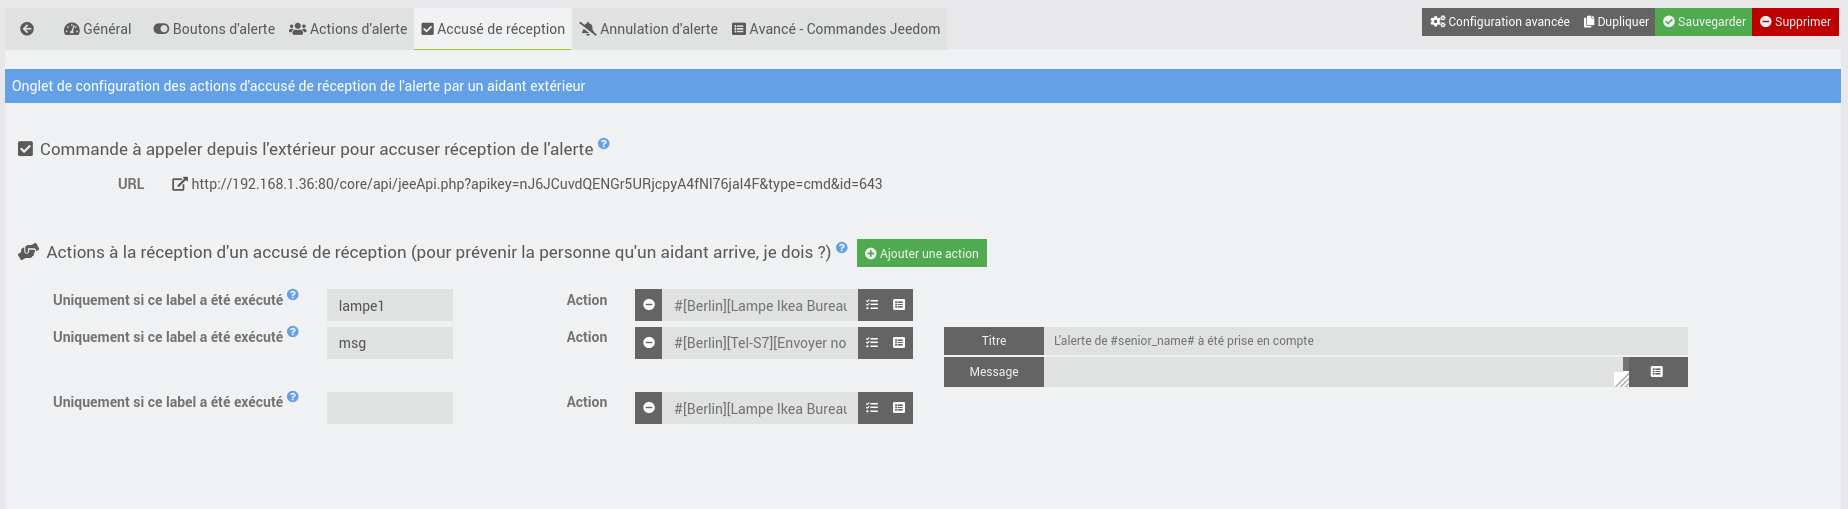
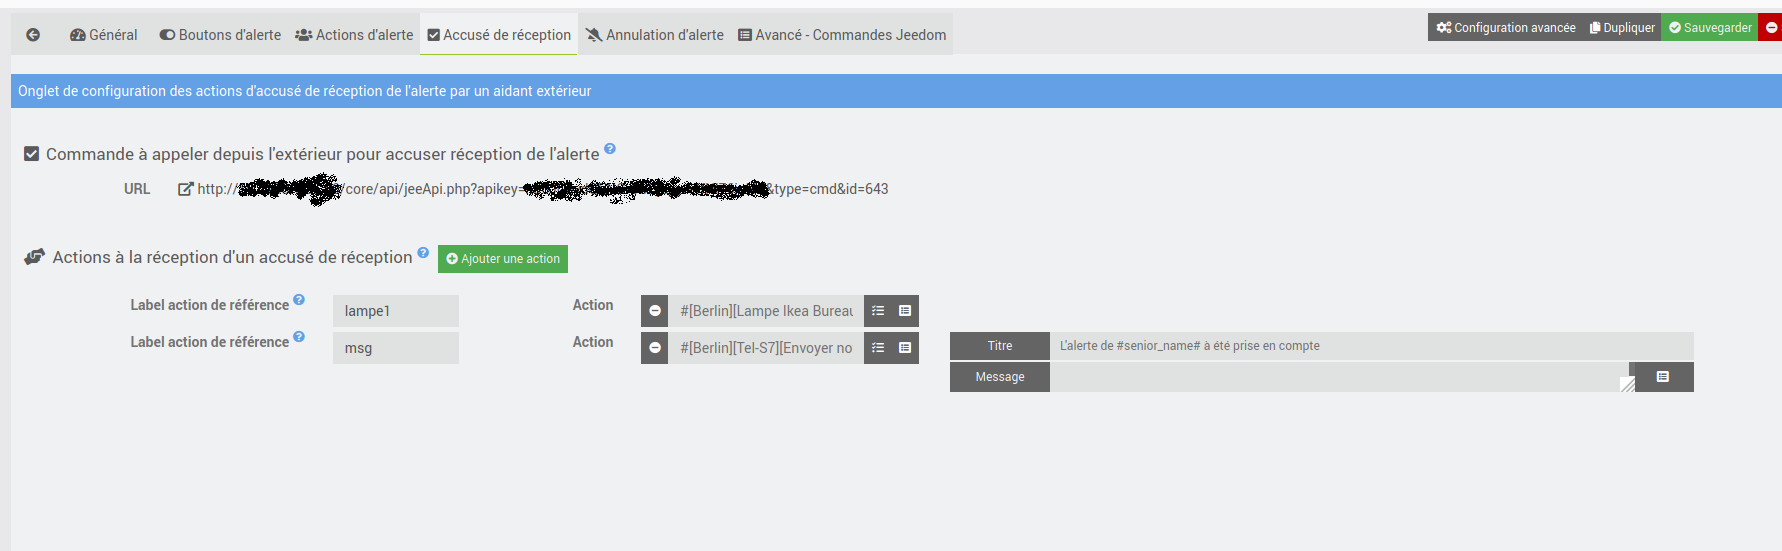
beta 3

diff --git a/desktop/js/seniorcarealertbt.js b/desktop/js/seniorcarealertbt.js
@@ -171,7 +171,7 @@ function addAction(_action, _type) {
     div += '<div class="form-group ">';
 
       if(_type == 'action_alert_bt'){ // pour les actions d'alertes,, on ajoute un label et un timer
-        div += '<label class="col-sm-1 control-label">{{Action label}} <sup><i class="fas fa-question-circle tooltips" title="{{Renseigner un label si vous voulez lier des actions de désactivations à cette action}}"></i></sup></label>';
+        div += '<label class="col-sm-1 control-label">{{Label}} <sup><i class="fas fa-question-circle tooltips" title="{{Renseigner un label si vous voulez lier des actions de désactivations à cette action}}"></i></sup></label>';
         div += '<div class="col-sm-1">';
           div += '<input type="text" class="expressionAttr form-control cmdInfo" data-l1key="action_label"/>';
         div += '</div>';
@@ -181,7 +181,7 @@ function addAction(_action, _type) {
           div += '<input type="number" class="expressionAttr form-control cmdInfo" data-l1key="action_timer"/>';
         div += '</div>';
       } else { // pour les actions à la reception d'1 AR ou d'annulation d'alerte, on ajoute le label de l'action d'alerte à lier
-        div += '<label class="col-sm-2 control-label">{{Uniquement si ce label a été exécuté}} <sup><i class="fas fa-question-circle tooltips" title="{{Renseigner le label de l\'action de référence. Cette action ne sera exécutée que si l\'action de référence a été précédemment exécutée. }}"></i></sup></label>';
+        div += '<label class="col-sm-2 control-label">{{Label action de référence}} <sup><i class="fas fa-question-circle tooltips" title="{{Renseigner le label de l\'action de référence. Cette action ne sera exécutée que si l\'action de référence a été précédemment exécutée. }}"></i></sup></label>';
         div += '<div class="col-sm-1">';
           div += '<input type="text" class="expressionAttr form-control cmdInfo" data-l1key="action_label_liee"/>';
         div += '</div>';

diff --git a/desktop/php/seniorcarealertbt.php b/desktop/php/seniorcarealertbt.php
@@ -126,9 +126,9 @@ $eqLogics = eqLogic::byType($plugin->getId());
           <div class="form-group">
             <label class="col-sm-3 control-label">{{Téléphone }}</label>
             <div class="col-sm-3">
-              <input type="text" class="eqLogicAttr form-control" data-l1key="configuration" data-l2key="senior_tel" placeholder="{{Numéro de téléphone de la personne dépendante}}"/>
+              <input type="text" class="eqLogicAttr form-control" data-l1key="configuration" data-l2key="senior_phone" placeholder="{{Numéro de téléphone de la personne dépendante}}"/>
             </div>
-            <div class="col-sm-3">{{tag <strong>#senior_tel#</strong>}}</div>
+            <div class="col-sm-3">{{tag <strong>#senior_phone#</strong>}}</div>
           </div>
 
           <div class="form-group">
@@ -144,17 +144,17 @@ $eqLogics = eqLogic::byType($plugin->getId());
           <div class="form-group">
             <label class="col-sm-3 control-label">{{Nom personne de référence }}</label>
             <div class="col-sm-3">
-              <input type="text" class="eqLogicAttr form-control" data-l1key="configuration" data-l2key="senior_ref_person" placeholder="{{Nom de la personne de référence}}"/>
+              <input type="text" class="eqLogicAttr form-control" data-l1key="configuration" data-l2key="trusted_person_name" placeholder="{{Nom de la personne de référence}}"/>
             </div>
-            <div class="col-sm-3">{{tag <strong>#senior_ref_person#</strong>}}</div>
+            <div class="col-sm-3">{{tag <strong>#trusted_person_name#</strong>}}</div>
           </div>
 
           <div class="form-group">
             <label class="col-sm-3 control-label">{{Téléphone personne de référence }}</label>
             <div class="col-sm-3">
-              <input type="text" class="eqLogicAttr form-control" data-l1key="configuration" data-l2key="senior_ref_person_tel" placeholder="{{Numéro de téléphone de la personne de référence}}"/>
+              <input type="text" class="eqLogicAttr form-control" data-l1key="configuration" data-l2key="trusted_person_phone" placeholder="{{Numéro de téléphone de la personne de référence}}"/>
             </div>
-            <div class="col-sm-3">{{tag <strong>#senior_ref_person_tel#</strong>}}</div>
+            <div class="col-sm-3">{{tag <strong>#trusted_person_phone#</strong>}}</div>
           </div>
         </fieldset>
       </form>
@@ -184,7 +184,7 @@ $eqLogics = eqLogic::byType($plugin->getId());
 
       <br/>
       <div class="alert alert-info">
-        {{Onglet de configuration des actions d'alerte pour prévenir les aidants. Vous pouvez choisir plusieurs actions et un délai d'attente pour chacune. Les actions en attente ne seront pas exécutées si un accusé de reception est recu entre-temps, ou en cas d'annulation de l'alerte.}}
+        {{Onglet de configuration des actions d'alerte pour prévenir les aidants. Vous pouvez choisir plusieurs actions et un délai d'attente pour chacune. Les actions en attente ne seront pas exécutées si un accusé de reception est reçu entre-temps, ou en cas d'annulation de l'alerte.}}
       </div>
 
       <form class="form-horizontal">
@@ -234,7 +234,7 @@ $eqLogics = eqLogic::byType($plugin->getId());
 
       <form class="form-horizontal">
         <fieldset>
-          <legend><i class="fas fa-hands-helping"></i> {{Actions à la réception d'un accusé de réception (pour prévenir la personne qu'un aidant arrive, je dois ?)}} <sup><i class="fas fa-question-circle tooltips" title="{{}}"></i></sup>
+          <legend><i class="fas fa-hands-helping"></i> {{Actions à la réception d'un accusé de réception}} <sup><i class="fas fa-question-circle tooltips" title="{{Actions pour prévenir la personne qu'un aidant arrive, ou prévenir les autres aidants que l'alerte est prise en compte}}"></i></sup>
             <a class="btn btn-success btn-sm addAction" data-type="action_ar_alert_bt" style="margin:5px;"><i class="fas fa-plus-circle"></i> {{Ajouter une action}}</a>
           </legend>
           <div id="div_action_ar_alert_bt"></div>

diff --git a/core/class/seniorcarealertbt.class.php b/core/class/seniorcarealertbt.class.php
@@ -157,16 +157,16 @@ class seniorcarealertbt extends eqLogic {
           foreach ($options as $key => $value) { // ici on peut définir les "tag" de configuration qui seront à remplacer par des variables
             // str_replace ($search, $replace, $subject) retourne une chaîne ou un tableau, dont toutes les occurrences de search dans subject ont été remplacées par replace.
             $value = str_replace('#senior_name#', $this->getConfiguration('senior_name'), $value);
-            $value = str_replace('#senior_tel#', $this->getConfiguration('senior_tel'), $value);
+            $value = str_replace('#senior_phone#', $this->getConfiguration('senior_phone'), $value);
             $value = str_replace('#senior_address#', $this->getConfiguration('senior_address'), $value);
 
-            $value = str_replace('#senior_ref_person#', $this->getConfiguration('senior_ref_person'), $value);
-            $value = str_replace('#senior_ref_person_tel#', $this->getConfiguration('senior_ref_person_tel'), $value);
+            $value = str_replace('#trusted_person_name#', $this->getConfiguration('trusted_person_name'), $value);
+            $value = str_replace('#trusted_person_phone#', $this->getConfiguration('trusted_person_phone'), $value);
 
       //      $value = str_replace('#url_ar#', $this->getConfiguration('url_ar'), $value); // marche pas malheureusement, probablement une histoire de formatage... TODO...
 
-            $value = str_replace('#sensor_name#', $_sensor_name, $value);
-            $value = str_replace('#sensor_type#', $_sensor_type, $value);
+      //      $value = str_replace('#sensor_name#', $_sensor_name, $value);
+      //      $value = str_replace('#sensor_type#', $_sensor_type, $value);
             $options[$key] = str_replace('#sensor_value#', $_sensor_value, $value);
           }
         }

diff --git a/docs/fr_FR/index.md b/docs/fr_FR/index.md
@@ -120,7 +120,7 @@ Cet onglet fourni l'URL à appeler pour déclencher l'Accusé de Réception ains
       * Le label saisi doit être strictement identique, attention aux espaces.
       * Lorsque le label est renseigné et correspond à une action d'alerte, il faut que l'action d'alerte de référence ait été précédemment lancée pour que la présente action s'exécute.
       * Attention, si vous renseignez un label qui n'existe pas (et donc ne sera jamais exécuté), l'action liée ne s'exécutera jamais.
-      * Exemple 1 : l'action d'alerte est d'envoyer un message à Mr x, 30 min après le déclenchement du bouton d'alerte (une alerte immédiate vers un autre aidant étant définie par ailleurs). L'action lors de l'AR est d'envoyer un message à Mr x pour le prévenir que quelqu'un à accusé réception de l'alerte. L'action d'AR ne sera exécutée que si l'action d'alerte initiale avait été exécutée à la fin de son délai de 10min. Ceci permet de ne pas envoyer des messages lors d'un AR alors que la personne n'avait pas reçu le message d'alerte initial.
+      * Exemple 1 : l'action d'alerte est d'envoyer un message à Mr x, 30 min après le déclenchement du bouton d'alerte (une alerte immédiate vers un autre aidant étant définie par ailleurs). L'action lors de l'AR est d'envoyer un message à Mr x pour le prévenir que quelqu'un à accusé réception de l'alerte. L'action d'AR ne sera exécutée que si l'action d'alerte initiale avait été exécutée à la fin de son délai de 30min. Ceci permet de ne pas envoyer des messages lors d'un AR alors que la personne n'avait pas reçu le message d'alerte initial.
       * Exemple 2 : l'action d'alerte est d'allumer immédiatement une lampe en orange (signaler à la personne que son bouton fonctionne et que l'alerte est envoyée). L'action d'AR est de passer cette lampe en vert lorsqu'un aidant a accusé réception de l'alerte. Il n'est ici pas nécessaire de définir un label pour les lier, car l'action initiale étant immédiate, il n'y a pas de risque d'annuler une action n'ayant jamais eu lieu.
    * **Action** : la commande jeedom correspondant à l'action voulue. L'action peut être de n'importe quel type : une lampe du logement, un message vers les aidants, l'appel d'un scenario jeedom, ... Si l'une de vos action est de type "message", vous pouvez utiliser les tags définis dans l'onglet **Général**
 
@@ -201,9 +201,9 @@ Le comportement dépendra de la configuration du plugin :
 * si toutes les actions sont liées à des label, alors il ne se passera rien.
 * si certaines actions ne sont pas conditionnées : elles seront exécutées.
 
+Divers
+---
 
-Remarques générales
-===
 * Pour les capteurs "bouton d'alerte" et "bouton d'annulation d'alerte", c'est le changement de valeur du capteur qui est détecté et déclenche les actions, la valeur en elle-même n'est pas prise en compte !
 * Si vous voulez utiliser un capteur complexe, comme un accéléromètre, vous pouvez utiliser un équipement "Virtuel" dans Jeedom pour définir des seuils et déclencher l'alerte du présent plugin en conséquence.
 * L'ensemble des capteurs définis dans le plugin doivent avoir un nom unique. Le changement de nom d'un capteur revient à le supprimer et à en créer un nouveau. L'historique associé à ce capteur sera donc perdue.

diff --git a/docs/fr_FR/changelog.md b/docs/fr_FR/changelog.md
@@ -15,3 +15,10 @@ Beta
 * Ajout des tags de configuration de la personne
 * Tests et debugs
 * Mise à jour documentation
+
+0.0.3 - 27 mars 2020
+---
+
+* Prise en compte des remarques du forum : changement du nom des tags et correction coquilles
+* Changement icone
+* Update doc (copies d'écran mises à jour)
